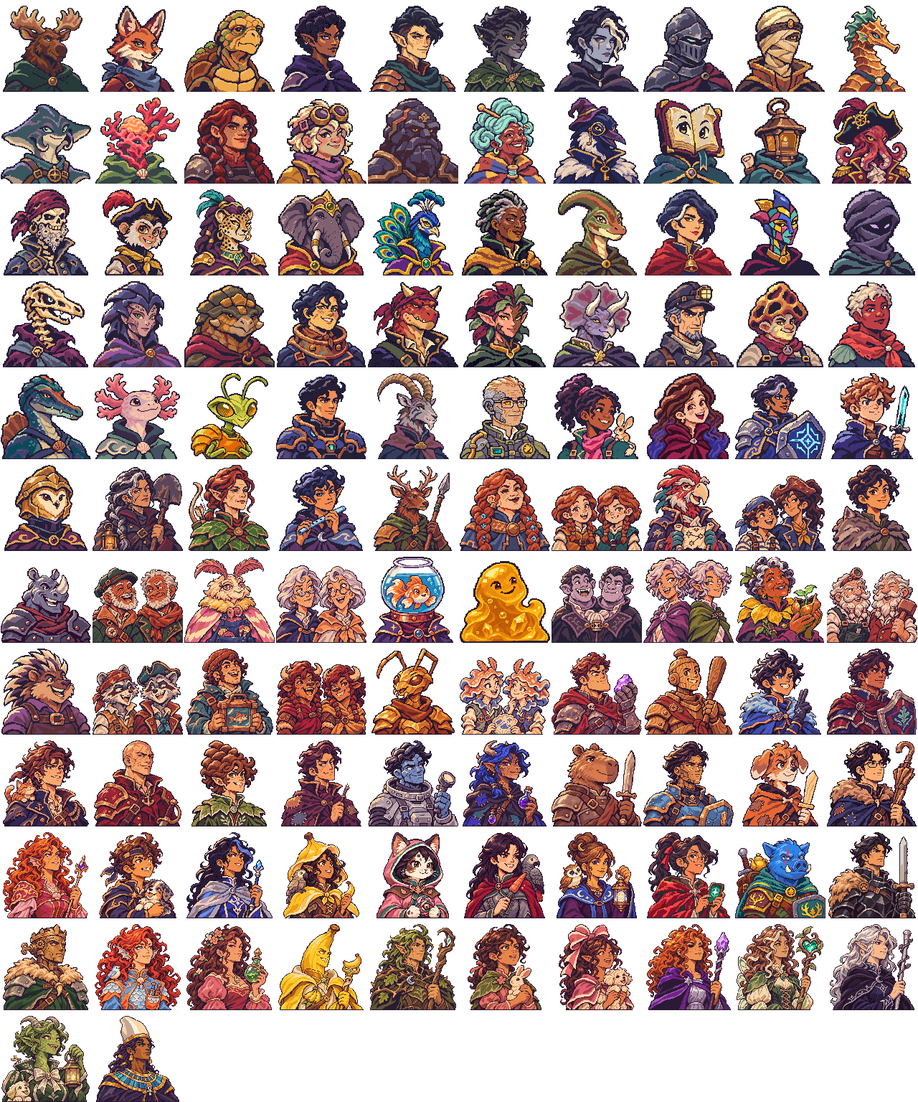
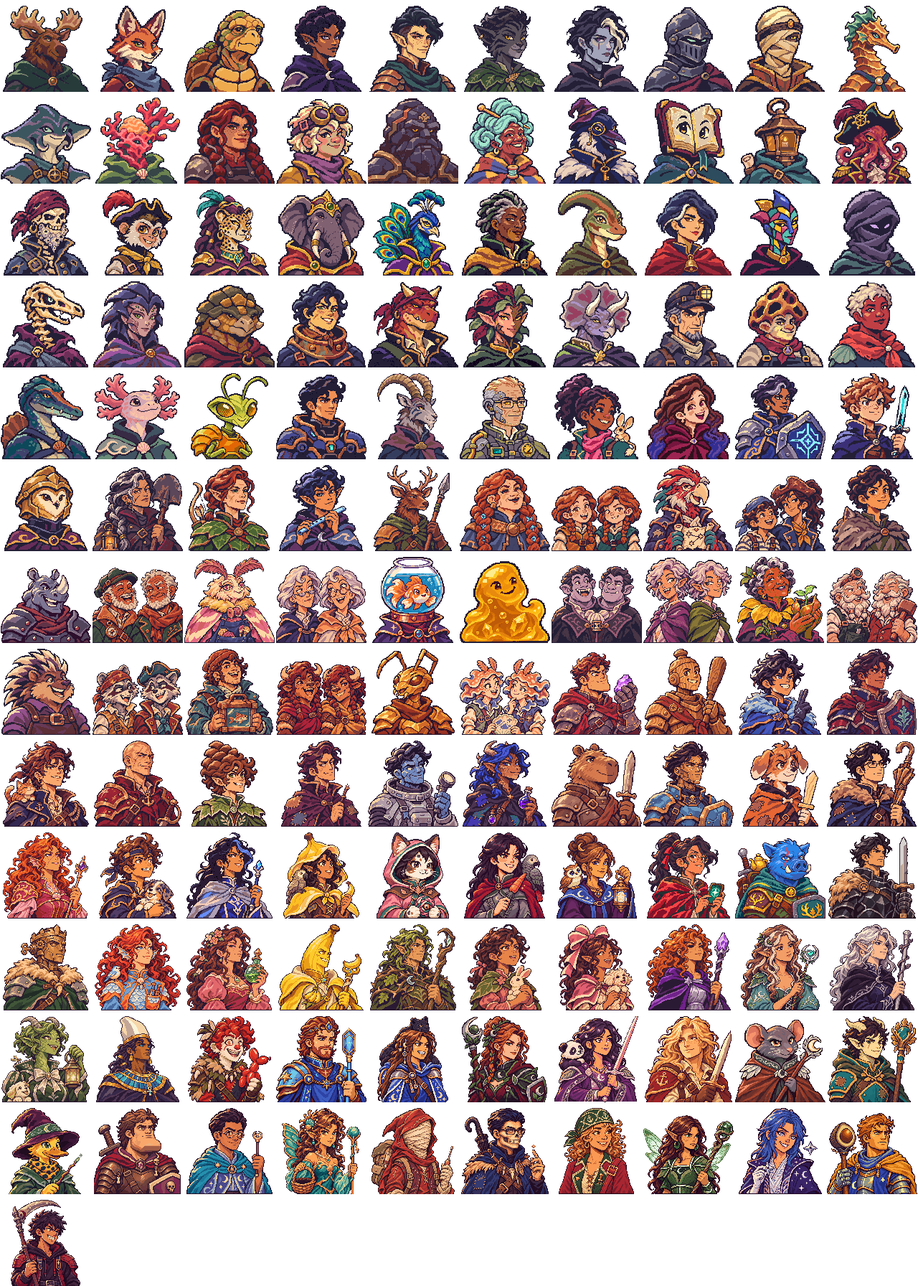
v60: student hero batches 6 and 7, retire Bonnie and the second Livingston, Harlan
Claude-Session: https://claude.ai/code/session_019G5bQC3KGAYpQSZdre1Ejx

diff --git a/js/01-data.js b/js/01-data.js
@@ -182,7 +182,7 @@ HEROES.push(
   {id:'battaglia',name:'Battaglia',fac:'rangers',type:'Might',st:[2,2,1,1],ab:'Champion of the Vale',ad:'Antler Knights +2 attack and +2 defense.',sk:[],sp:[],fx:{unitAtk:{antler:2},unitDef:{antler:2}}},
   {id:'lawrence',name:'Lawrence',fac:'pirates',type:'Magic',st:[0,1,2,2],ab:"Ship's Surgeon",ad:'Mend heals 40% more, and Deckhands +2 growth per week.',sk:[],sp:['mend'],fx:{mendPct:1.4,growth:{deckhand:2}}},
   {id:'michael',name:'Michael',fac:'elves',type:'Might',st:[2,2,1,1],ab:'Glade Guard',ad:'Grove Wardens +2 attack and +2 defense.',sk:[],sp:[],fx:{unitAtk:{dryad:2},unitDef:{dryad:2}}},
-  {id:'livingston',name:'Livingston',fac:'elves',type:'Magic',st:[0,1,2,2],ab:'Rootweaver',ad:'Entangle lasts 1 round longer. With her partner Livingston in your party, your whole army +1 morale.',sk:[],sp:['entangle'],fx:{entangleExtra:1,partner:'livingston_cyborg',partnerMorale:1}},
+  {id:'livingston',name:'Livingston',fac:'elves',type:'Magic',st:[0,1,2,2],ab:'Rootweaver',ad:'Entangle lasts 1 round longer, and Sprites +1 speed.',sk:[],sp:['entangle'],fx:{entangleExtra:1,unitSpd:{sprite:1}}},
   {id:'slack',name:'Slack',fac:'dwarves',type:'Might',st:[2,1,2,1],ab:'Hammer and Hex',ad:'Young Dwarves +2 attack, and Ember Dart deals 50% more. Starts with a spellbook.',sk:[],sp:['ember'],fx:{unitAtk:{delver:2},emberPct:1.5}},
   /* v39: each banner shows six heroes (pickers, rivals' first heroes); one more per banner has tav:true and is only met in the tavern ("on the road"). Rogues have no banner. */
   {id:'alderhide',name:'Alderhide',fac:'elves',type:'Might',st:[2,2,1,1],ab:'Moose Guardian',ad:'Elven Riders +1 attack and +2 defense.',sk:['shieldcraft'],sp:[],fx:{unitAtk:{rider:1},unitDef:{rider:2}}},
@@ -219,18 +219,18 @@ HEROES.push(
   {id:'rattleclaw',name:'Rattleclaw',fac:'necro',type:'Might',st:[2,1,1,1],ab:'Fossil Raptor',ad:'Skeletons +2 attack and +1 speed.',sk:['bladework'],sp:[],fx:{unitAtk:{skeleton:2},unitSpd:{skeleton:1}}},
   {id:'silka',name:'Violet',fac:'centaurs',type:'Magic',st:[0,1,2,2],ab:'Silk Keeper',ad:'Entangle costs half and lasts 1 round longer.',sk:['meditation'],sp:['entangle'],fx:{halfCost:'entangle',entangleExtra:1}},
   {id:'flintback',name:'Flintback',fac:'centaurs',type:'Might',st:[1,3,1,1],ab:'Ankylosaur Shieldbearer',ad:'Hounds +1 attack and +3 defense.',sk:['shieldcraft'],sp:[],fx:{unitAtk:{hounds:1},unitDef:{hounds:3}}},
-  {id:'bess_bell',name:'Bonnie',fac:'pirates',type:'Might',st:[1,2,1,2],ab:'Salvage Diver',ad:'+150 gold every day, and +10% movement.',sk:['seamanship'],sp:[],fx:{goldDay:150,mpPct:10}},
+  {id:'bess_bell',retired:true,name:'Bonnie',fac:'pirates',type:'Might',st:[1,2,1,2],ab:'Salvage Diver',ad:'+150 gold every day, and +10% movement.',sk:['seamanship'],sp:[],fx:{goldDay:150,mpPct:10}},
   {id:'rusk_hookhorn',tav:true,name:'Rusk Hookhorn',fac:'merfolk',type:'Might',st:[2,1,1,1],ab:'Carnotaur First Mate',ad:'Spearfolk +2 attack and +1 speed.',sk:['command'],sp:[],fx:{unitAtk:{spear:2},unitSpd:{spear:1}}},
   {id:'aster',retired:true,name:'Aster',fac:'elves',type:'Magic',st:[0,1,2,2],ab:'Dryad Envoy',ad:'Grove Wardens +1 growth per week, and Mend heals 25% more.',sk:['meditation'],sp:['mend'],fx:{growth:{dryad:1},mendPct:1.25}},
   {id:'thornfrill',name:'Thornfrill',fac:'rangers',type:'Might',st:[1,3,1,1],ab:'Frill Knight',ad:'Oak Wardens +1 attack and +2 defense.',sk:['shieldcraft'],sp:[],fx:{unitAtk:{oak:1},unitDef:{oak:2}}},
-  {id:'harlan_chalk',name:'Harlan Chalk',fac:'dwarves',type:'Might',st:[1,2,1,2],ab:'Mine Rescue Chief',ad:'Young Dwarves +3 growth per week and +2 defense.',sk:['command'],sp:[],fx:{growth:{delver:3},unitDef:{delver:2}}},
+  {id:'harlan_chalk',name:'Harlan',fac:'dwarves',type:'Might',st:[1,2,1,2],ab:'Mine Rescue Chief',ad:'Young Dwarves +3 growth per week and +2 defense.',sk:['command'],sp:[],fx:{growth:{delver:3},unitDef:{delver:2}}},
   {id:'morel',retired:true,name:'Morel',fac:'dwarves',type:'Magic',st:[0,1,2,2],ab:'Spore Brewer',ad:'Your whole army +1 luck.',sk:['fortune'],sp:['mend'],fx:{luck:1}},
   {id:'iona_shoal',retired:true,name:'Iona Shoal',fac:'merfolk',type:'Magic',st:[0,1,2,2],ab:'Reef Medic',ad:'Mend heals 50% more, and healing also gives +1 morale.',sk:['meditation'],sp:['mend'],fx:{mendPct:1.5,healMorale:1}},
   {id:'nerka',name:'Nerka',fac:'merfolk',type:'Might',st:[2,1,1,1],ab:'Tide Hunter',ad:'Giant Crabs +2 attack and +1 speed.',sk:['bladework'],sp:[],fx:{unitAtk:{crab:2},unitSpd:{crab:1}}},
   /* v43 final roster additions */
   {id:'payton',name:'Peyto',fac:'pirates',type:'Might',st:[2,1,1,2],ab:'Treasure Nose',ad:'Finds coins everywhere: +100 gold a day, and your whole army +1 luck.',sk:['fortune'],sp:[],fx:{goldDay:100,luck:1}},
   {id:'nissa',name:'Nissa',fac:'rangers',type:'Magic',st:[0,1,2,2],ab:'Jerboa Friend',ad:'Moth Seers +2 growth per week and +1 speed.',sk:['farsight'],sp:['mend'],fx:{growth:{moth:2},unitSpd:{moth:1}}},
-  {id:'livingston_cyborg',name:'Livingston',fac:'elves',type:'Might',st:[2,1,1,2],ab:'Gadgeteer',ad:'Your shooters deal 10% more damage. With his partner Livingston in your party, your whole army +1 morale.',sk:['steadyaim'],sp:[],fx:{rangedPct:0.10,partner:'livingston',partnerMorale:1}},
+  {id:'livingston_cyborg',retired:true,name:'Livingston',fac:'elves',type:'Might',st:[2,1,1,2],ab:'Gadgeteer',ad:'Your shooters deal 10% more damage. With his partner Livingston in your party, your whole army +1 morale.',sk:['steadyaim'],sp:[],fx:{rangedPct:0.10,partner:'livingston',partnerMorale:1}},
   {id:'enzo',name:'Enzo',fac:'dwarves',type:'Might',st:[2,2,1,1],ab:'Powered Suit',ad:'Ram Riders +2 attack and +2 defense.',sk:['shieldcraft'],sp:[],fx:{unitAtk:{ramrider:2},unitDef:{ramrider:2}}},
   {id:'axel',tav:true,name:'Axel',fac:'merfolk',type:'Magic',st:[0,1,2,2],ab:'Tide Guide',ad:'Sirens +2 growth per week and +1 speed.',sk:['meditation'],sp:['mend'],fx:{growth:{siren:2},unitSpd:{siren:1}}},
   {id:'dot',tav:true,name:'Dot',fac:'rangers',type:'Might',st:[2,1,1,2],ab:'Mantis Courier',ad:'+15% movement, and Thornguard +1 attack.',sk:['forcedmarch'],sp:[],fx:{mpPct:15,unitAtk:{thorn:1}}},
@@ -300,6 +300,26 @@ HEROES.push(
   {id:'lily',tav:true,student:true,name:'Lily',fac:'elves',type:'Magic',st:[0, 1, 3, 2],ab:'Shadow Vine',ad:'Longbow Rangers +2 attack, and +1 vision.',sk:['meditation'],sp:['entangle'],fx:{unitAtk:{longbow:2},vision:1}},
   {id:'pottery',tav:true,student:true,name:'Pottery',fac:'rangers',type:'Magic',st:[0, 1, 3, 2],ab:'Lantern Witch',ad:'Reedbows +2 attack, and +1 vision.',sk:['meditation'],sp:['mend'],fx:{unitAtk:{reed:2},vision:1}},
   {id:'kaf_underworld_pharaoh',tav:true,student:true,name:'Kaf',fac:'necro',type:'Might',st:[2, 2, 1, 1],ab:'Underworld Pharaoh',ad:'Your whole army +1 defense, and +100 gold a day.',sk:['command'],sp:[],fx:{armyDef:1,goldDay:100}},
+  /* v60: Student Heroes batches 6 and 7 */
+  {id:'nohahahahah',tav:true,student:true,name:'Nohahahahah',fac:'centaurs',type:'Might',st:[2, 1, 1, 1],ab:'LaughALot',ad:'+15% movement on the map.',sk:['forcedmarch'],sp:['entangle'],fx:{mpPct:15}},
+  {id:'yatt',tav:true,student:true,name:'Yatt',fac:'merfolk',type:'Might',st:[2, 2, 1, 1],ab:'Star Crown',ad:'Coral Colossi +2 defense, and your whole army +1 morale.',sk:['command'],sp:[],fx:{unitDef:{colossus:2},morale:1}},
+  {id:'boja',tav:true,student:true,name:'Boja',fac:'centaurs',type:'Might',st:[2, 1, 1, 2],ab:'Panther Friend',ad:'Lions +2 attack and +1 speed.',sk:['bladework'],sp:[],fx:{unitAtk:{lion:2},unitSpd:{lion:1}}},
+  {id:'poison',tav:true,student:true,name:'Poison',fac:'elves',type:'Might',st:[1, 2, 1, 2],ab:'Ivy Shield',ad:'Grove Wardens +2 defense and +1 attack.',sk:['shieldcraft'],sp:[],fx:{unitDef:{dryad:2},unitAtk:{dryad:1}}},
+  {id:'paitence_and_jay',tav:true,student:true,name:'Paitence & Jay',fac:'centaurs',type:'Might',st:[2, 2, 1, 1],ab:'Panda Pal',ad:'Hounds +2 attack and +1 defense.',sk:['bladework'],sp:[],fx:{unitAtk:{hounds:2},unitDef:{hounds:1}}},
+  {id:'liam',tav:true,student:true,name:'Liam',fac:'pirates',type:'Might',st:[2, 1, 1, 2],ab:'Anchor Blade',ad:'Duelists +2 attack and +1 speed.',sk:['seamanship'],sp:[],fx:{unitAtk:{duelist:2},unitSpd:{duelist:1}}},
+  {id:'cornelius_ii',tav:true,student:true,name:'Cornelius II',fac:'rangers',type:'Magic',st:[0, 1, 3, 2],ab:'Moon Mouse',ad:'Thornguard +3 growth per week, and +1 luck for the whole army.',sk:['meditation'],sp:['mend'],fx:{growth:{thorn:3},luck:1}},
+  {id:'ward',tav:true,student:true,name:'Ward',fac:'rangers',type:'Magic',st:[0, 2, 2, 2],ab:'Horned Warden',ad:'Oak Wardens +2 defense, and Entangle lasts 1 round longer.',sk:['meditation'],sp:['entangle'],fx:{unitDef:{oak:2},entangleExtra:1}},
+  {id:'sir_quackars',tav:true,student:true,name:'Sir Quackars',fac:'wizards',type:'Magic',st:[0, 1, 3, 2],ab:'Quack Spark',ad:'Owl Familiars +3 growth per week and +1 speed.',sk:['sorcery'],sp:['ember'],fx:{growth:{owl:3},unitSpd:{owl:1}}},
+  {id:'sir_giggachins',tav:true,student:true,name:'Sir Giggachins',fac:'dwarves',type:'Might',st:[2, 2, 1, 1],ab:'Mighty Chin',ad:'Dwarf Paladins +2 attack and +1 defense.',sk:['shieldcraft'],sp:[],fx:{unitAtk:{paladin:2},unitDef:{paladin:1}}},
+  {id:'buffalo',tav:true,student:true,name:'Buffalo',fac:'wizards',type:'Magic',st:[0, 1, 3, 2],ab:'Star Magician',ad:'Apprentice Mages +2 attack and +1 defense.',sk:['sorcery'],sp:['ember'],fx:{unitAtk:{apprentice:2},unitDef:{apprentice:1}}},
+  {id:'ella',tav:true,student:true,name:'Ella',fac:'elves',type:'Magic',st:[0, 1, 2, 3],ab:'Wicker Basket',ad:'+150 gold every day, and Sprites +1 speed.',sk:['estates'],sp:['mend'],fx:{goldDay:150,unitSpd:{sprite:1}}},
+  {id:'sus',tav:true,student:true,name:'Sus',fac:'necro',type:'Might',st:[1, 2, 1, 2],ab:'Fix-It Mummy',ad:'Zombies +2 defense and +1 attack.',sk:['shieldcraft'],sp:[],fx:{unitDef:{zombie:2},unitAtk:{zombie:1}}},
+  {id:'samba',tav:true,student:true,name:'Samba',fac:'necro',type:'Magic',st:[0, 1, 3, 2],ab:'Umbrella Walker',ad:'Skeletons +2 attack, and +10% movement on the map.',sk:['meditation'],sp:['ember'],fx:{unitAtk:{skeleton:2},mpPct:10}},
+  {id:'alora',tav:true,student:true,name:'Alora',fac:'pirates',type:'Might',st:[2, 1, 1, 2],ab:'Anchor Bandanna',ad:'Powder Monkeys +2 attack and +1 speed.',sk:['seamanship'],sp:[],fx:{unitAtk:{powder:2},unitSpd:{powder:1}}},
+  {id:'ezlen',tav:true,student:true,name:'Ezlen',fac:'elves',type:'Magic',st:[0, 1, 3, 2],ab:'Emerald Wings',ad:'Giant Eagles +2 attack, and Entangle lasts 1 round longer.',sk:['meditation'],sp:['entangle'],fx:{unitAtk:{eagle:2},entangleExtra:1}},
+  {id:'stargirl',tav:true,student:true,name:'Stargirl',fac:'merfolk',type:'Might',st:[2, 1, 1, 2],ab:'Throwing Stars',ad:'Sirens +2 attack and +1 speed.',sk:['bladework'],sp:[],fx:{unitAtk:{siren:2},unitSpd:{siren:1}}},
+  {id:'mangrove',tav:true,student:true,name:'Mangrove',fac:'merfolk',type:'Might',st:[1, 2, 1, 2],ab:'Avocado Staff',ad:'Turtle Knights +2 defense and +1 attack.',sk:['shieldcraft'],sp:[],fx:{unitDef:{turtle:2},unitAtk:{turtle:1}}},
+  {id:'gerry',tav:true,student:true,name:'Gerry',fac:'wizards',type:'Might',st:[2, 1, 1, 2],ab:'Lantern Burst',ad:'Storm Elementals +2 attack.',sk:['bladework'],sp:['spark'],fx:{unitAtk:{stormel:2}}},
   {id:'eden',name:'Eden',fac:'elves',type:'Magic',st:[0,1,2,2],ab:'Master Archer',ad:'Longbow Rangers +1 damage and +4 shots.',sk:['steadyaim'],sp:[],fx:{unitDmgFlat:{longbow:1},unitShots:{longbow:4}}},
   {id:'letchworth',name:'Letchworth',fac:'merfolk',type:'Magic',st:[0,1,2,2],ab:'Siren Keeper',ad:'Sirens +2 shots and +1 damage.',sk:[],sp:['squall'],fx:{unitShots:{siren:2},unitDmgFlat:{siren:1}}},
 );
@@ -363,7 +383,7 @@ const START_KIT={bear:['command','sash'],perry:['shieldcraft','buckler'],boone:[
   elvis:['command','sash'],mer2:['shieldcraft','kettle'],rocky:['forcedmarch','sash'],letchworth:['meditation','breath']};
 HEROES.forEach(h=>{const k=START_KIT[h.id];if(k){h.sk=[k[0]];h.item=k[1];}});
 /* v41: every hero starts with an artifact (the newer heroes had none) */
-const START_ITEM={'bort_simesin':'buckler','gunt_gunt':'buckler','azure_hype':'inkwell','ericsonion':'inkwell','ardcat':'buckler','space_toad':'buckler','mr_pinecone':'buckler','nix':'inkwell','deepwave_the_ai':'inkwell','bobbythebob':'inkwell','capydara':'buckler','lishy':'buckler','kushalito_banana':'buckler','fut_esports':'inkwell','noel_dragonfire':'buckler','luckenzo':'inkwell','lord_krishna':'inkwell','bananna':'inkwell','nala':'inkwell','nanya':'inkwell','posy_spinner':'inkwell','catherine':'inkwell','bristle':'buckler','zenvy':'buckler','king_pharoph_the_3rd':'buckler','rose_flower':'inkwell','posy':'inkwell','bannana_boy':'inkwell','spirit_of_the_forest':'buckler','ava_young':'inkwell','rosie':'inkwell','celestine_circe':'inkwell','estella':'inkwell','lily':'inkwell','pottery':'inkwell','kaf_underworld_pharaoh':'buckler','gus_and_glen':'errands','midge':'inkwell','mags_and_mae':'spark','bloop':'inkwell','gleam':'purse','odo_and_otto':'buckler','aster_and_briar':'breath','rue':'cloak','ned_and_nat':'bracer','spike':'buckler','rafe_and_reed':'purse','bo':'errands','bess_and_bea':'buckler','gilt':'rabbit','fin_and_flo':'breath','vera':'buckler','remy':'spark','ada':'cloak','mara':'candle','ivy':'bracer','lune':'inkwell','hart':'errands','orla':'breath','kit_and_nell':'purse','cato':'inkwell','sid_and_tess':'rabbit','wren':'errands','rumble':'buckler','payton':'rabbit','nissa':'cloak','livingston_cyborg':'bracer','enzo':'buckler','axel':'breath','dot':'errands','gale':'spark','zahara': 'errands', 'tembor': 'buckler', 'cresset': 'candle', 'nessa_holt': 'errands', 'reedcall': 'bracer', 'purl': 'inkwell', 'quillby': 'purse', 'sera_venn': 'breath', 'gliss': 'spark', 'veyra': 'spark', 'graven': 'buckler', 'ossin': 'inkwell', 'murmur': 'cloak', 'rattleclaw': 'whetstone', 'silka': 'candle', 'flintback': 'kettle', 'inkwake': 'cudgel', 'saltjaw': 'whetstone', 'pip_quickline': 'cloak', 'bess_bell': 'errands', 'rusk_hookhorn': 'cudgel', 'ilyra': 'breath', 'tavian': 'whetstone', 'yselle': 'inkwell', 'aster': 'candle', 'thornfrill': 'buckler', 'brynja': 'cudgel', 'tansy': 'bracer', 'kiln': 'kettle', 'harlan_chalk': 'buckler', 'morel': 'rabbit', 'spindle': 'errands', 'skimmer': 'whetstone', 'atoll': 'spark', 'iona_shoal': 'breath', 'nerka': 'cudgel', 'alderhide': 'buckler', 'briar': 'cloak', 'mossback': 'breath', 'virel': 'rabbit'};
+const START_ITEM={'nohahahahah':'errands','yatt':'sash','boja':'buckler','poison':'buckler','paitence_and_jay':'buckler','liam':'buckler','cornelius_ii':'inkwell','ward':'inkwell','sir_quackars':'inkwell','sir_giggachins':'buckler','buffalo':'inkwell','ella':'inkwell','sus':'buckler','samba':'inkwell','alora':'buckler','ezlen':'inkwell','stargirl':'buckler','mangrove':'buckler','gerry':'buckler','bort_simesin':'buckler','gunt_gunt':'buckler','azure_hype':'inkwell','ericsonion':'inkwell','ardcat':'buckler','space_toad':'buckler','mr_pinecone':'buckler','nix':'inkwell','deepwave_the_ai':'inkwell','bobbythebob':'inkwell','capydara':'buckler','lishy':'buckler','kushalito_banana':'buckler','fut_esports':'inkwell','noel_dragonfire':'buckler','luckenzo':'inkwell','lord_krishna':'inkwell','bananna':'inkwell','nala':'inkwell','nanya':'inkwell','posy_spinner':'inkwell','catherine':'inkwell','bristle':'buckler','zenvy':'buckler','king_pharoph_the_3rd':'buckler','rose_flower':'inkwell','posy':'inkwell','bannana_boy':'inkwell','spirit_of_the_forest':'buckler','ava_young':'inkwell','rosie':'inkwell','celestine_circe':'inkwell','estella':'inkwell','lily':'inkwell','pottery':'inkwell','kaf_underworld_pharaoh':'buckler','gus_and_glen':'errands','midge':'inkwell','mags_and_mae':'spark','bloop':'inkwell','gleam':'purse','odo_and_otto':'buckler','aster_and_briar':'breath','rue':'cloak','ned_and_nat':'bracer','spike':'buckler','rafe_and_reed':'purse','bo':'errands','bess_and_bea':'buckler','gilt':'rabbit','fin_and_flo':'breath','vera':'buckler','remy':'spark','ada':'cloak','mara':'candle','ivy':'bracer','lune':'inkwell','hart':'errands','orla':'breath','kit_and_nell':'purse','cato':'inkwell','sid_and_tess':'rabbit','wren':'errands','rumble':'buckler','payton':'rabbit','nissa':'cloak','livingston_cyborg':'bracer','enzo':'buckler','axel':'breath','dot':'errands','gale':'spark','zahara': 'errands', 'tembor': 'buckler', 'cresset': 'candle', 'nessa_holt': 'errands', 'reedcall': 'bracer', 'purl': 'inkwell', 'quillby': 'purse', 'sera_venn': 'breath', 'gliss': 'spark', 'veyra': 'spark', 'graven': 'buckler', 'ossin': 'inkwell', 'murmur': 'cloak', 'rattleclaw': 'whetstone', 'silka': 'candle', 'flintback': 'kettle', 'inkwake': 'cudgel', 'saltjaw': 'whetstone', 'pip_quickline': 'cloak', 'bess_bell': 'errands', 'rusk_hookhorn': 'cudgel', 'ilyra': 'breath', 'tavian': 'whetstone', 'yselle': 'inkwell', 'aster': 'candle', 'thornfrill': 'buckler', 'brynja': 'cudgel', 'tansy': 'bracer', 'kiln': 'kettle', 'harlan_chalk': 'buckler', 'morel': 'rabbit', 'spindle': 'errands', 'skimmer': 'whetstone', 'atoll': 'spark', 'iona_shoal': 'breath', 'nerka': 'cudgel', 'alderhide': 'buckler', 'briar': 'cloak', 'mossback': 'breath', 'virel': 'rabbit'};
 HEROES.forEach(h=>{if(!h.item&&START_ITEM[h.id])h.item=START_ITEM[h.id];});
 /* starting stats: one higher across the board, more on each hero's main stat, and a personal extra point */
 for(const h of HEROES){if(h._st)continue;h._st=1;const r=hash(h.id);h.st=h.st.map(v=>v+1);const main=h.type==='Might'?(h.st[0]>=h.st[1]?0:1):(h.st[2]>=h.st[3]?2:3);h.st[main]+=1+(r%2);h.st[(r>>>3)%4]+=1;}

diff --git a/js/02-art.js b/js/02-art.js
@@ -237,7 +237,7 @@ function drawRelic(c,i,x,y,r){const Rl=RELICS[i];c.save();c.translate(x,y);c.sca
 const ART_BASE='assets/';
 /* Tavern Recruits (v37): 19 portraits packed in portraits/heroes/recruits.png (10 a row, 128 px) so the published copy stays under its file limit.
    Cropped to a data URL once the atlas loads; on file:// (canvas export blocked) or before it loads, use the single file. */
-const RECRUIT_PORT=['alderhide','briar','mossback','ilyra','tavian','yselle','veyra','graven','ossin','spindle','skimmer','atoll','brynja','tansy','kiln','purl','quillby','folio','cresset','inkwake','saltjaw','pip_quickline','zahara','tembor','virel','nessa_holt','reedcall','sera_venn','gliss','murmur','rattleclaw','silka','flintback','bess_bell','rusk_hookhorn','aster','thornfrill','harlan_chalk','morel','iona_shoal','nerka','axel','dot','enzo','gale','livingston_cyborg','nissa','payton','vera','remy','ada','mara','ivy','lune','hart','orla','kit_and_nell','cato','sid_and_tess','wren','rumble','gus_and_glen','midge','mags_and_mae','bloop','gleam','odo_and_otto','aster_and_briar','rue','ned_and_nat','spike','rafe_and_reed','bo','bess_and_bea','gilt','fin_and_flo','bort_simesin','gunt_gunt','azure_hype','ericsonion','ardcat','space_toad','mr_pinecone','nix','deepwave_the_ai','bobbythebob','capydara','lishy','kushalito_banana','fut_esports','noel_dragonfire','luckenzo','lord_krishna','bananna','nala','nanya','posy_spinner','catherine','bristle','zenvy','king_pharoph_the_3rd','rose_flower','posy','bannana_boy','spirit_of_the_forest','ava_young','rosie','celestine_circe','estella','lily','pottery','kaf_underworld_pharaoh'];
+const RECRUIT_PORT=['alderhide','briar','mossback','ilyra','tavian','yselle','veyra','graven','ossin','spindle','skimmer','atoll','brynja','tansy','kiln','purl','quillby','folio','cresset','inkwake','saltjaw','pip_quickline','zahara','tembor','virel','nessa_holt','reedcall','sera_venn','gliss','murmur','rattleclaw','silka','flintback','bess_bell','rusk_hookhorn','aster','thornfrill','harlan_chalk','morel','iona_shoal','nerka','axel','dot','enzo','gale','livingston_cyborg','nissa','payton','vera','remy','ada','mara','ivy','lune','hart','orla','kit_and_nell','cato','sid_and_tess','wren','rumble','gus_and_glen','midge','mags_and_mae','bloop','gleam','odo_and_otto','aster_and_briar','rue','ned_and_nat','spike','rafe_and_reed','bo','bess_and_bea','gilt','fin_and_flo','bort_simesin','gunt_gunt','azure_hype','ericsonion','ardcat','space_toad','mr_pinecone','nix','deepwave_the_ai','bobbythebob','capydara','lishy','kushalito_banana','fut_esports','noel_dragonfire','luckenzo','lord_krishna','bananna','nala','nanya','posy_spinner','catherine','bristle','zenvy','king_pharoph_the_3rd','rose_flower','posy','bannana_boy','spirit_of_the_forest','ava_young','rosie','celestine_circe','estella','lily','pottery','kaf_underworld_pharaoh','nohahahahah','yatt','boja','poison','paitence_and_jay','liam','cornelius_ii','ward','sir_quackars','sir_giggachins','buffalo','ella','sus','samba','alora','ezlen','stargirl','mangrove','gerry'];
 const recruitCache={};
 function recruitPortrait(id){if(recruitCache[id])return recruitCache[id];const a=artImg('portraits/heroes/recruits.png'),i=RECRUIT_PORT.indexOf(id),file=ART_BASE+`portraits/heroes/${id}_128.png`;
   if(!a.ok)return file;try{const cv=document.createElement('canvas');cv.width=cv.height=128;cv.getContext('2d').drawImage(a.img,(i%10)*128,Math.floor(i/10)*128,128,128,0,0,128,128);return recruitCache[id]=cv.toDataURL();}catch(e){return recruitCache[id]=file;}}

diff --git a/js/10-save.js b/js/10-save.js
@@ -63,7 +63,7 @@ function migrateRoster(st){if(!st||st.roster>=2)return;const M={};for(const[f,ol
   walk(st);st.roster=2;}
 /* saves from before v25: new resources, and cities and rival homes you already hold become full towns */
 /* v43 renames: old default name → new name, applied to saved heroes that still carry the old name */
-const OLD_NAMES={reedcall:['Reedcall','Crestwind'],veyra:['Veyra','Vesra','Mira','Willa'],ossin:['Ossin','Osrin','Dusty'],graven:['Graven','Lore'],zahara:['Zahara','Zarra'],tembor:['Tembor','India'],cresset:['Cresset','Wick'],yselle:['Yselle','Fern'],atoll:['Atoll','Coral'],bess_bell:['Bess Bell','Bonnie'],virel:['Virel','Plume'],silka:['Silka','Ivy','Violet'],murmur:['Murmur','Hush'],tansy:['Tansy','Penny'],briar:['Briar','Rusty'],lord_krishna:['Lord Krishna','Larishna'],catherine:['Catherine','Katherine'],rosie:['Rosie','Rousie']};
+const OLD_NAMES={harlan_chalk:['Harlan Chalk','Harlan'],reedcall:['Reedcall','Crestwind'],veyra:['Veyra','Vesra','Mira','Willa'],ossin:['Ossin','Osrin','Dusty'],graven:['Graven','Lore'],zahara:['Zahara','Zarra'],tembor:['Tembor','India'],cresset:['Cresset','Wick'],yselle:['Yselle','Fern'],atoll:['Atoll','Coral'],bess_bell:['Bess Bell','Bonnie'],virel:['Virel','Plume'],silka:['Silka','Ivy','Violet'],murmur:['Murmur','Hush'],tansy:['Tansy','Penny'],briar:['Briar','Rusty'],lord_krishna:['Lord Krishna','Larishna'],catherine:['Catherine','Katherine'],rosie:['Rosie','Rousie']};
 function migrateTowns(st){[...(st.heroes||[]),...(st.rivals||[]),...((st.players||[]).flatMap(p=>p&&p.heroes||[]))].forEach(h=>{if(h&&h.id==='elvis'&&h.name==='Elvis')h.name='Eelvis';if(h&&OLD_NAMES[h.id]&&OLD_NAMES[h.id].slice(0,-1).includes(h.name))h.name=OLD_NAMES[h.id].at(-1);});/* v27: the Ranger is now id perry and the Elf id eden (ids match names; new portraits) */
   if(!st.ids27){st.ids27=1;for(const h of [...(st.heroes||[]),...(st.rivals||[]),...(st.players||[]).flatMap(q=>q.heroes||[])]){if(h.id==='eden'){h.id='perry';if(h.name==='Eden'||h.name==='Perry')h.name='Perry';}else if(h.id==='perry'){h.id='eden';if(h.name==='Perry'||h.name==='Eden')h.name='Eden';}}}
   const fix=r=>{if(r)for(const k of RES)if(r[k]==null)r[k]=0;};fix(st.res);(st.players||[]).forEach(q=>fix(q.res));

diff --git a/CLAUDE.md b/CLAUDE.md
@@ -223,6 +223,11 @@ Everything lives in one object, `S`, so it can be saved as JSON:
 - New ability hooks (player side only): `forgePlus` (extra Great Forge attack), `armyDef` (whole army defense), `rangedPct` (shooter damage), `halfCost` (one spell at half mana), `manaCut` (all spells cheaper), `squallPct`, `weakenPct`.
 - Raised: Ivan (Forge half ore, +1 more attack), Oliver (30% cheaper rough ground, +5% movement), Shadow (harvest 20%), Sheila (Squall +30%), Grimes and Griffiths (+1 speed to their troop). Made distinct: Veyra, Gliss, Silka, Murmur, Boone, Mossback, Aster, Nessa Holt. Trimmed: Schmickle and Quillby to +200 gold a day. Battaglia is a Might hero.
 
+### v60 student batches 6 and 7, roster trim
+
+- 19 more student heroes (`student:true, tav:true`, after Kaf in `HEROES`), banners and abilities chosen to fit each picture: Beastmasters Nohahahahah (+15% movement), Boja (Lions), Paitence & Jay (Hounds); Merfolk Yatt (Coral Colossi, +1 morale), Stargirl (Sirens), Mangrove (Turtle Knights); Elves Poison (Grove Wardens), Ella (+150 gold a day), Ezlen (Giant Eagles); Rangers Cornelius II (Thornguard growth), Ward (Oak Wardens); Wizards Sir Quackars (Owl Familiars), Buffalo (Apprentice Mages), Gerry (Storm Elementals); Necromancers Sus (Zombies), Samba (Skeletons); Pirates Liam (Duelists), Alora (Powder Monkeys); Dwarves Sir Giggachins (Paladins). Estella has a new portrait. `RECRUIT_PORT`/`recruits.png` hold 131 portraits (14 rows).
+- Retired: Bonnie (`bess_bell`) and the second Livingston (`livingston_cyborg`); the first Livingston lost her partner bonus (now Entangle +1 round and Sprites +1 speed). Harlan Chalk is now Harlan (`OLD_NAMES`). Saltjaw was already retired.
+
 ### v59 Hero Book
 
 - Title screen: **📖 Hero Book** between Create a hero and Hall of Fame (`openHeroBook` in `13-boot.js`). It shows every hero who isn't retired (136, plus class heroes on this browser) as cards: portrait on the banner colour, name, crest, Might or Magic, the four stats as coloured dots, and the short ability. Filters: banner (all or one of 8), Might / Magic, group (`hbGroup`: banner picks, tavern heroes and rogues, student heroes, class heroes), and a search over names and ability text. State lives in `HB`; clicking a card opens a details view (`hbDetail`: big portrait, stats, ability, skills, artifact, spells, story).

diff --git a/LEGAL.md b/LEGAL.md
@@ -61,6 +61,7 @@ No other libraries, images or audio are included. Art made later with ChatGPT or
 | Banner Heroes: 13 new hero portraits and 13 redraws in `assets/portraits/heroes/` and `recruits.png` | Supplied by the author (generated pixel art, ChatGPT) | 2026-11-13 | Invented characters; any modelled on real people are used with their permission |
 | Twins & Tavern Heroes: 15 hero portraits in `assets/portraits/heroes/` and `recruits.png` | Supplied by the author (generated pixel art, ChatGPT) | 2026-11-13 | Invented characters |
 | Legacy Portrait Redesigns (10) and Student Heroes batches 1, 3, 4, 5 (36 portraits) in `assets/portraits/heroes/` and `recruits.png` | Supplied by the author (generated pixel art, ChatGPT, from students' Create a hero worksheets) | 2026-11-14 | Characters designed by students, used with the author's permission |
+| Student Heroes batches 6 and 7 (19 new portraits and a redrawn Estella) in `assets/portraits/heroes/` and `recruits.png` | Supplied by the author (generated pixel art, ChatGPT, from students' Create a hero worksheets) | 2026-11-14 | Characters designed by students, used with the author's permission |
 | Half-size move cursor (`assets/ui/cursors/move_small.png`) | Downscaled locally from Pack 09's move cursor | 2026-11-08 | Same as above |
 
 The generated source images (high-res magenta PNGs) are kept outside this repo.
